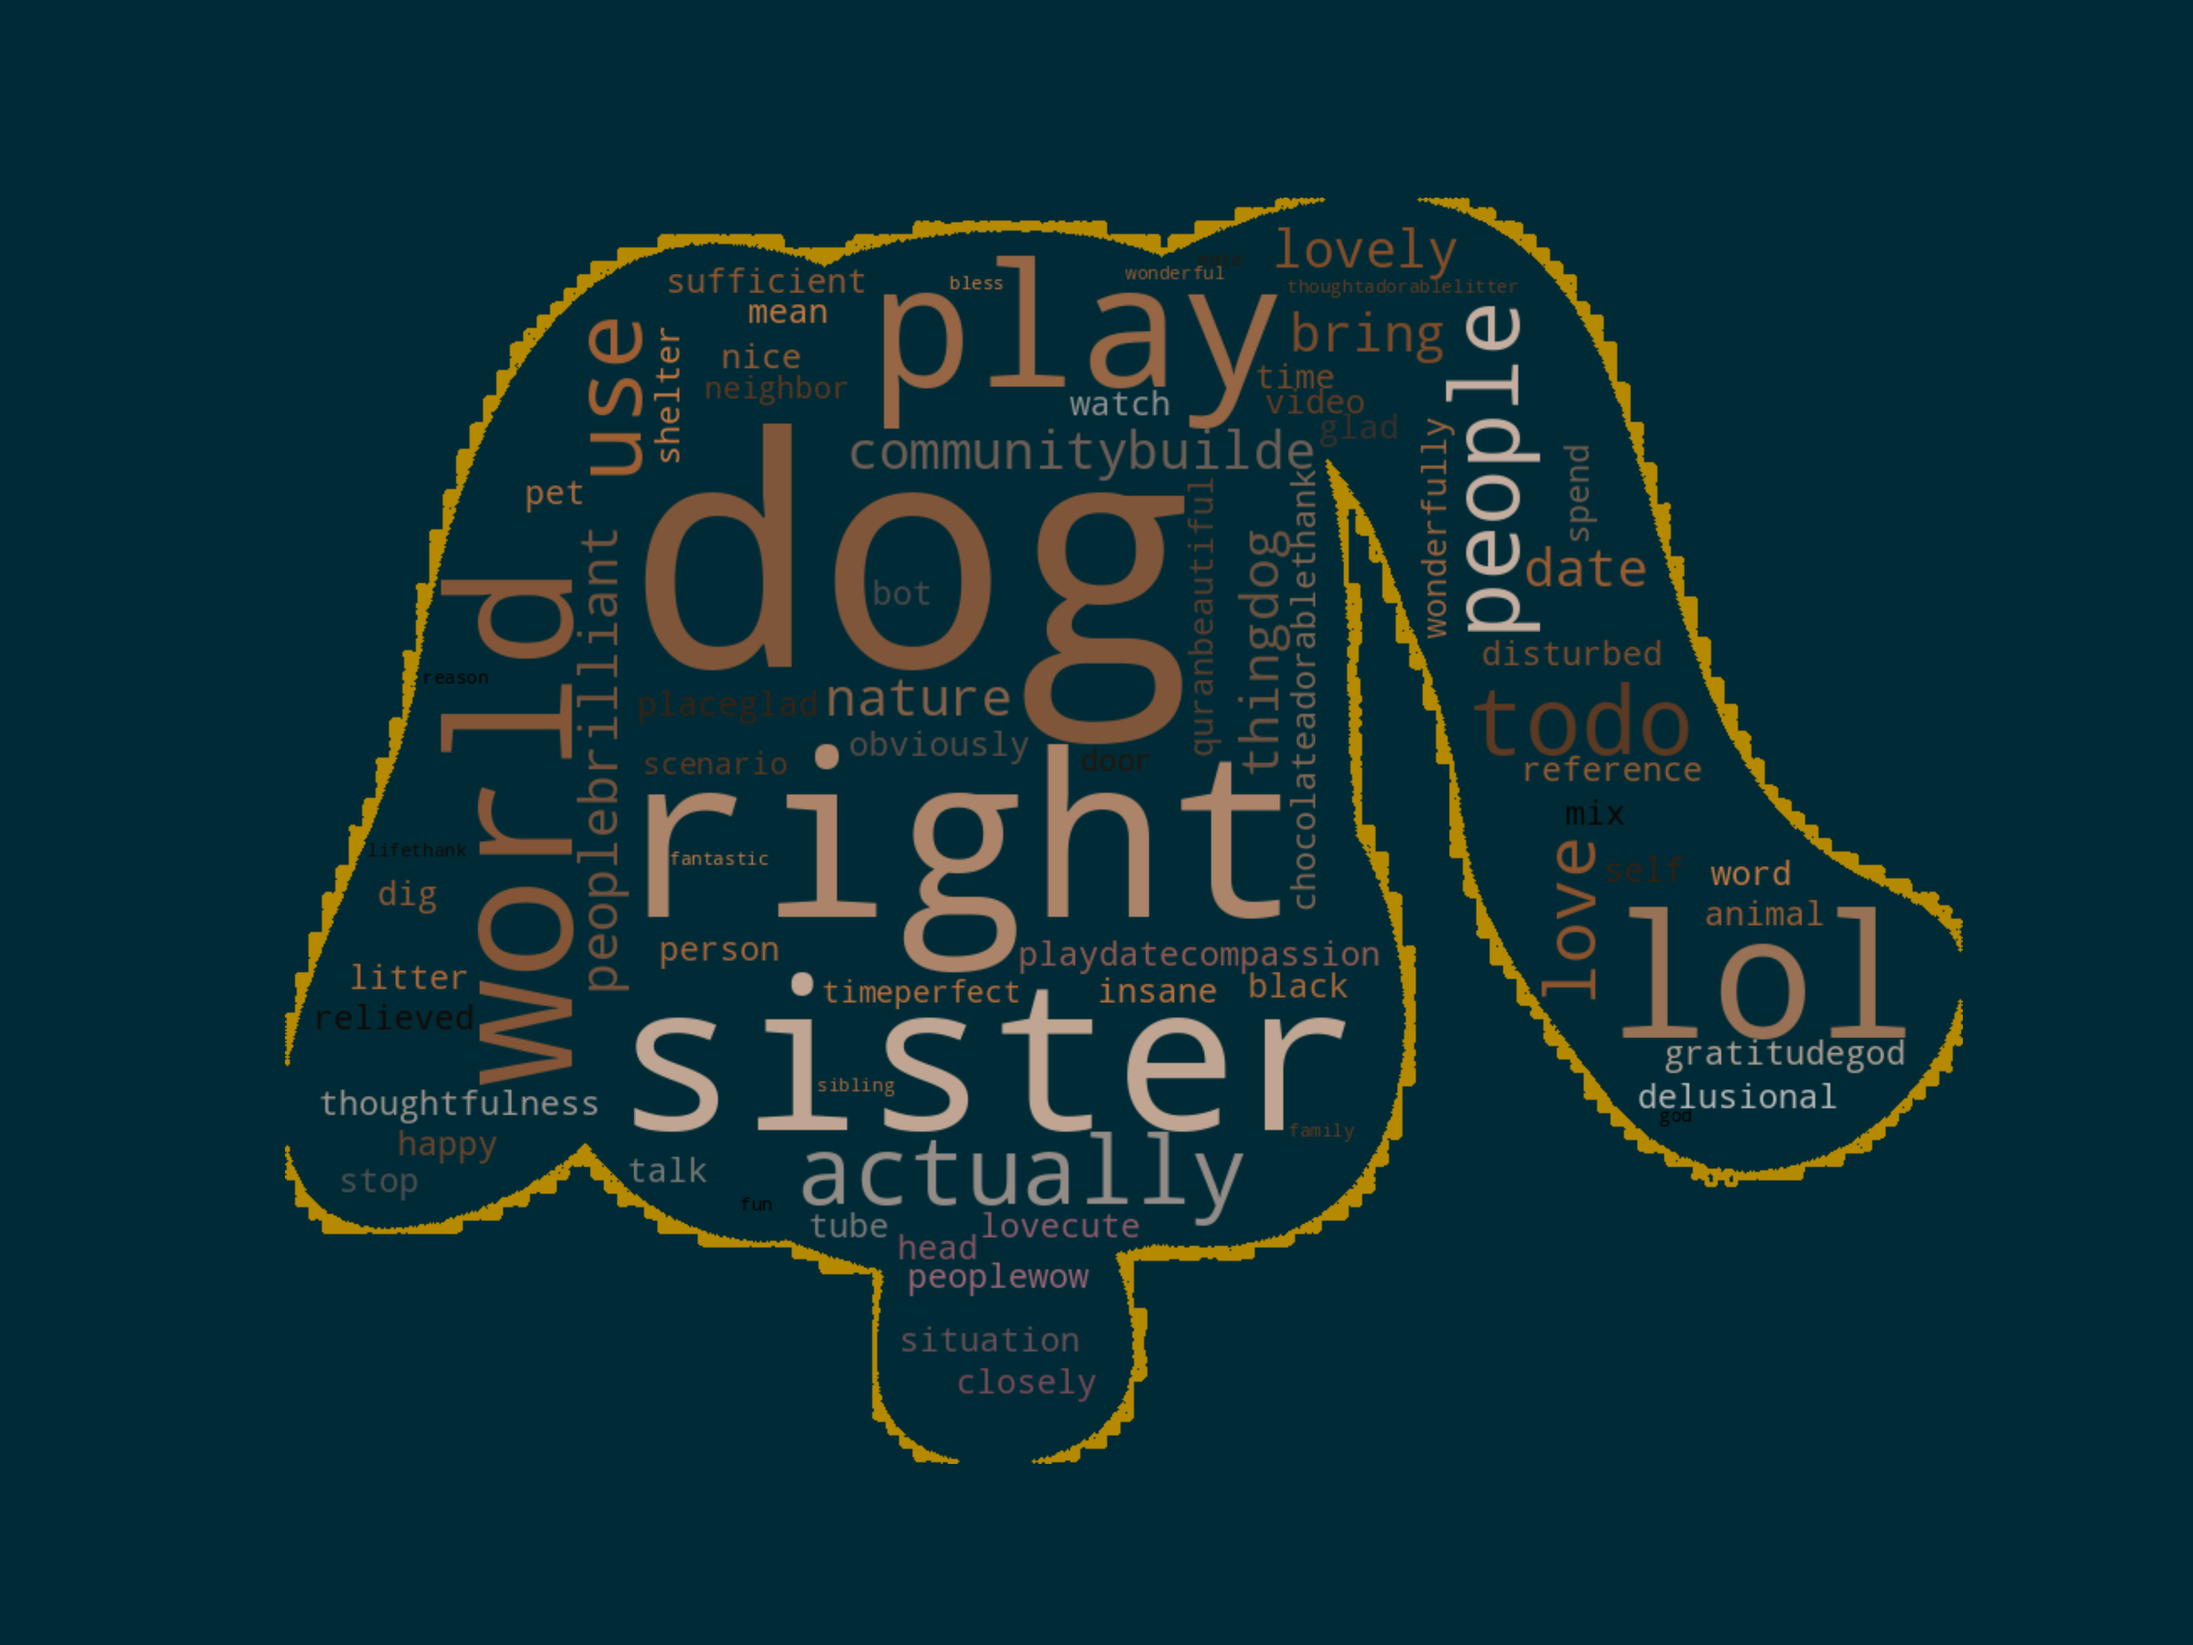
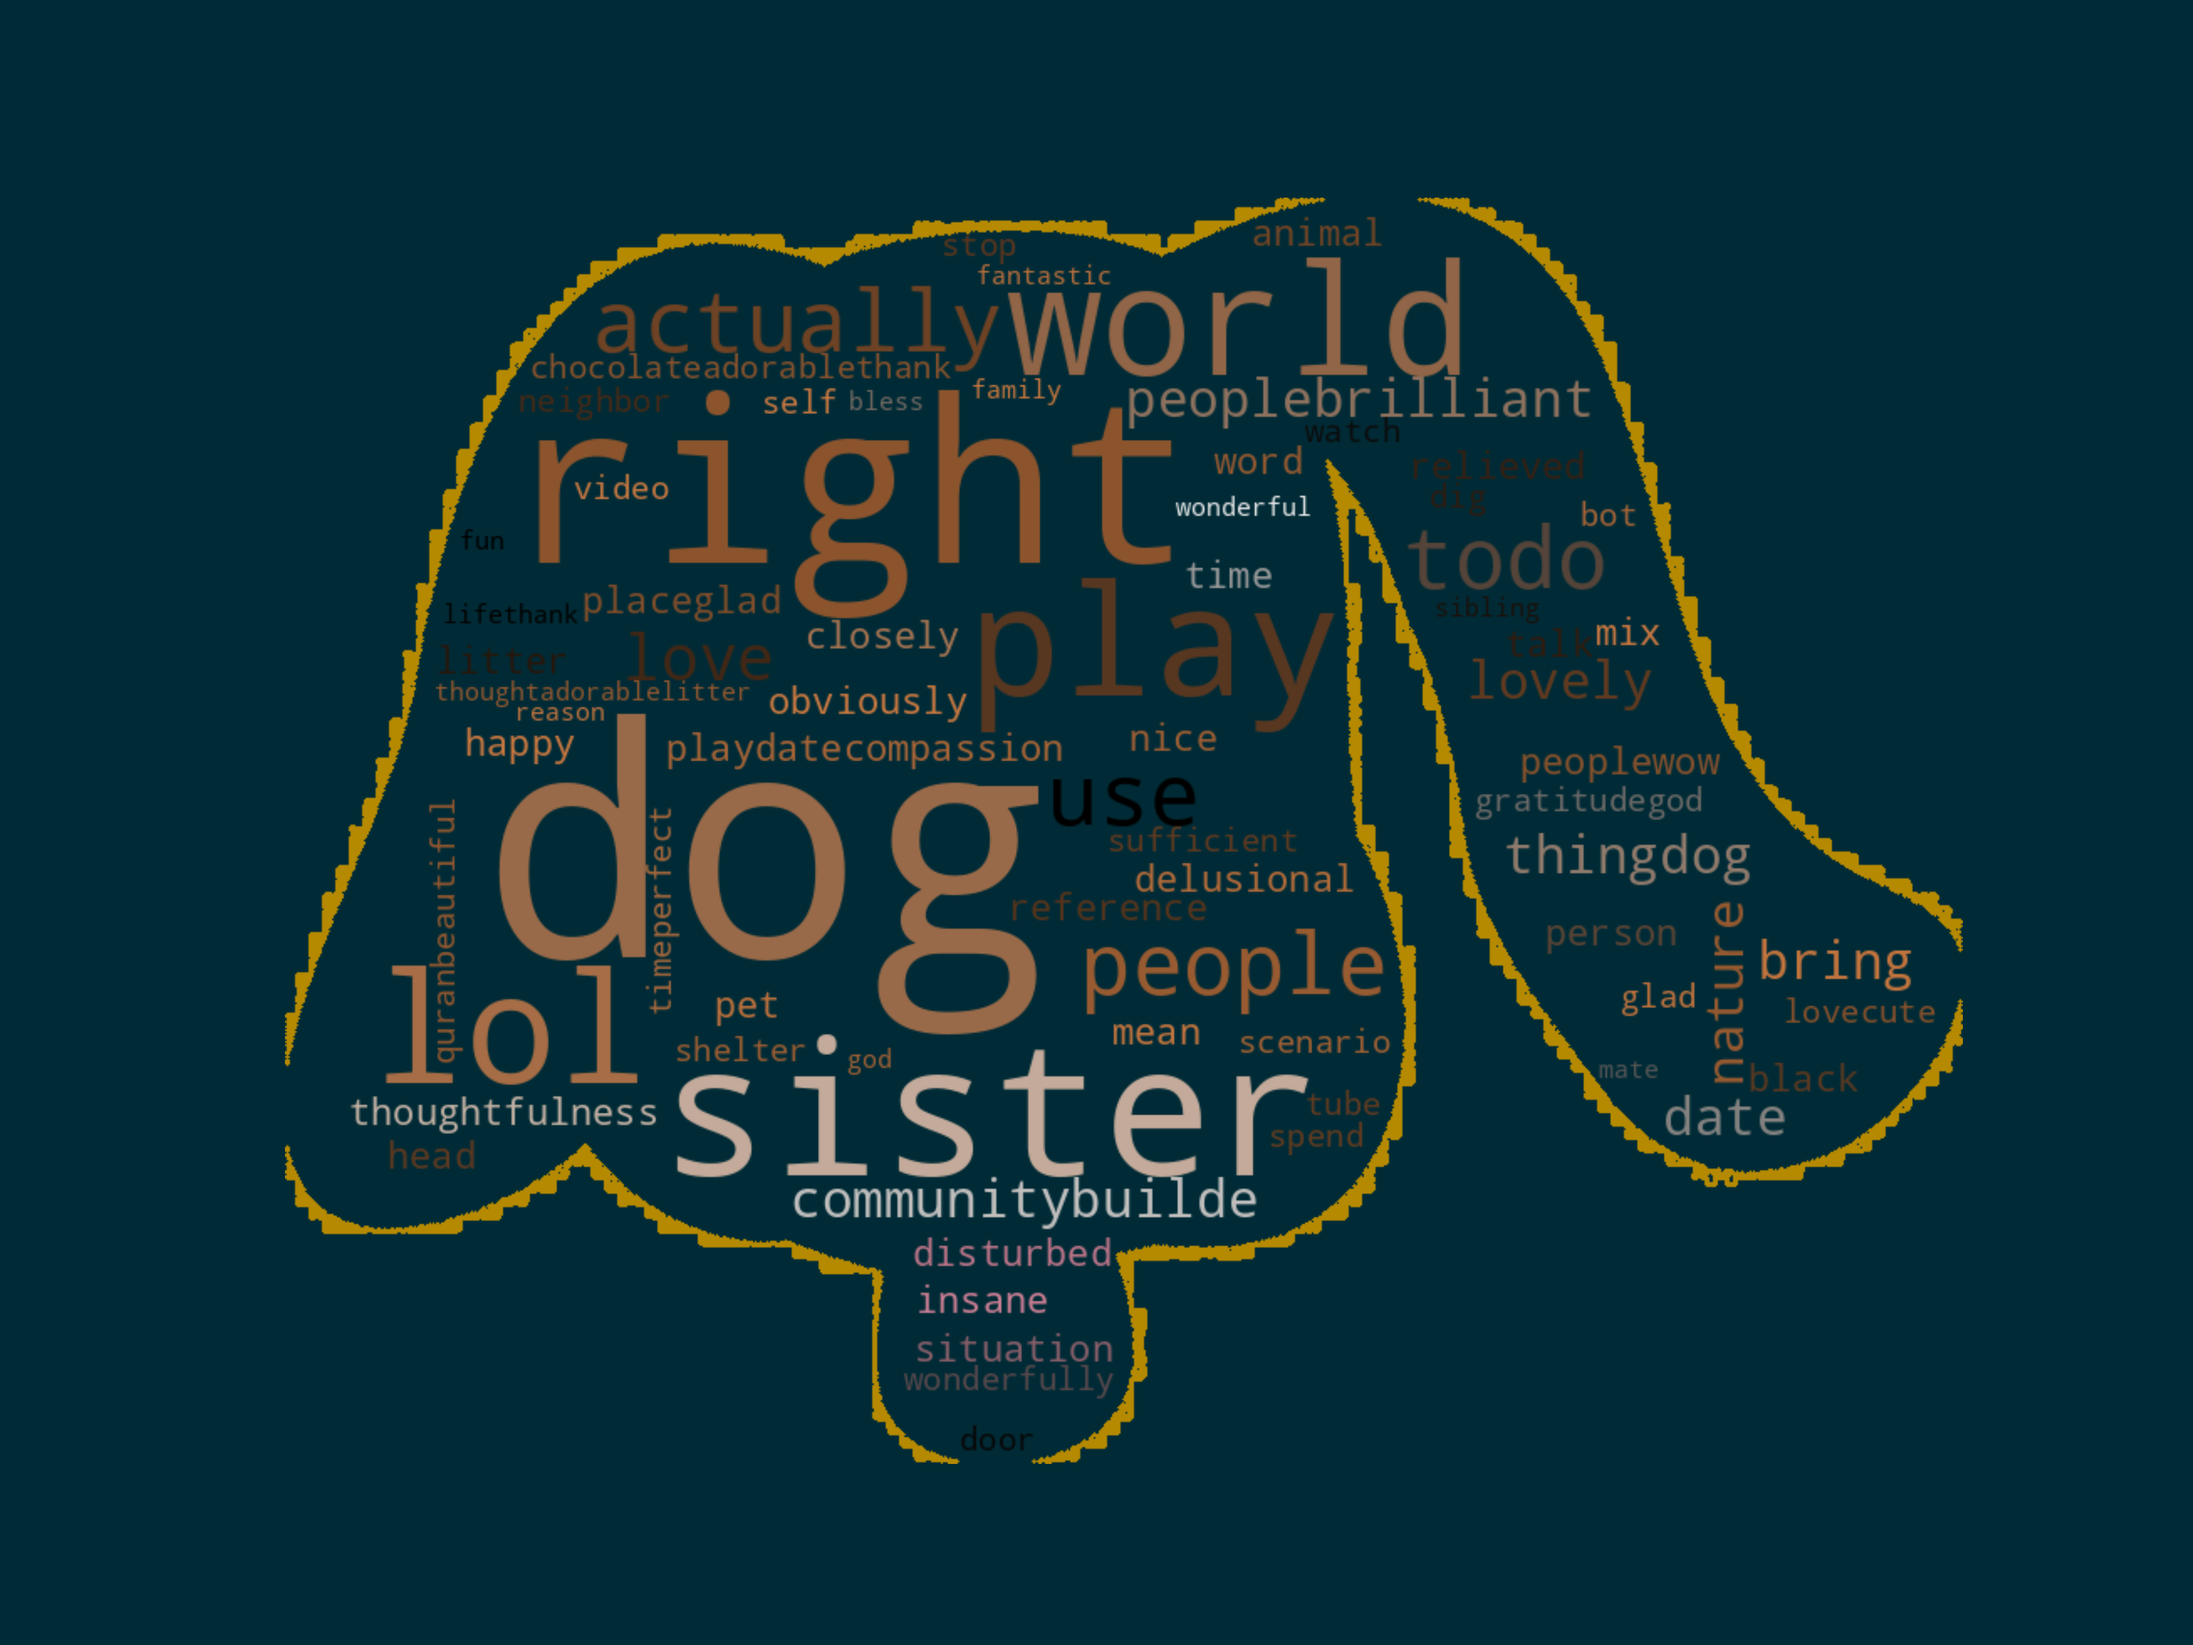
Improved layout

Changed region(s): [[0.1562, 0.125, 0.875, 0.875]]

diff --git a/media_insights/dashboard/dashboard.py b/media_insights/dashboard/dashboard.py
@@ -10,21 +10,29 @@ st.set_page_config(layout="wide", page_title="Your media analytics")
 
 
 st.title("Media Insights")
-
 st.text("Here are the latest analytics from your channel")
 
+# Make sidebar with sliders to change forecasts
+with st.sidebar:
+    st.markdown("## Forecast Settings")
+    st.markdown("You can **change** how far out to forecast.")
+    p1 = st.slider('Comments', min_value=0, max_value=365, step=1, value=7)
+    p2 = st.slider('Sentiment: -1 is most negative and +1 is most positive', 
+                    min_value=0, max_value=365, step=1, value=7)
+
+# plot_wordcloud saves the plot to an image because plotting it is slow
 plot_wordcloud(main_df)
 image = Image.open('media_insights/data/wordcloud.png')
-
-periods = st.slider("Number of periods to forecast", 0, 365, step=1, value=7)
+st.image(image, caption='Top words from your comments section', width=700)
 
 col1, col2 = st.columns(2)
 
 with col1:
-    comment_ts_chart = plot_comment_ts(main_df, periods)
+    # Comments over time
+    comment_ts_chart = plot_comment_ts(main_df, p1)
     st.altair_chart(comment_ts_chart, use_container_width=True)
-    st.image(image, caption='Top words from your comments section', width=700)
 
 with col2:
-    sentiment_ts_chart = plot_sentiment_ts(main_df, periods)
+    # Sentiment time series
+    sentiment_ts_chart = plot_sentiment_ts(main_df, p2)
     st.altair_chart(sentiment_ts_chart, use_container_width=True)

diff --git a/media_insights/dashboard/ts_plots.py b/media_insights/dashboard/ts_plots.py
@@ -86,7 +86,7 @@ def plot_ts(df: pd.DataFrame, title: str, y_col: str, y_title: str, caption: boo
             {"values": [{"text": 
                         "Sentiment ranges from -1 for most negative to +1 for most positive"}]}
         ).mark_text(align="left").encode(
-            text="text:N"
+            text="text:N",
         )
 
         final_plot = alt.vconcat(
